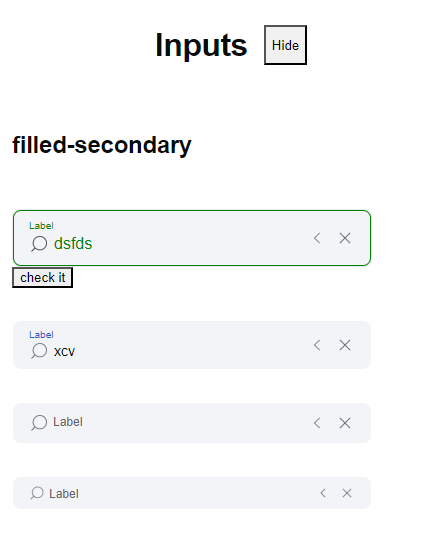
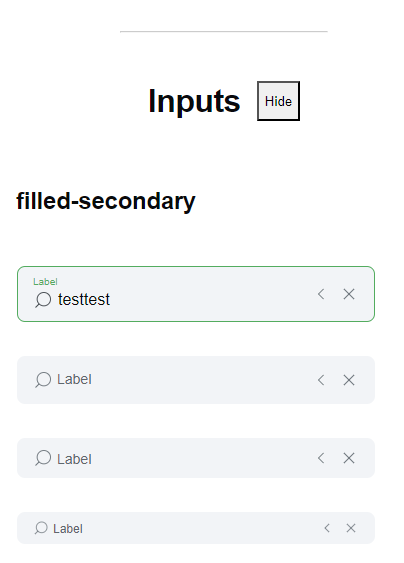
feat: add fill-sec input validation

diff --git a/src/styles/blocks/_input.scss b/src/styles/blocks/_input.scss
@@ -40,9 +40,6 @@
 	background: var(--wgr-secondary);
 	&.input {
 		outline: 0;
-		// &:hover {
-		// 	border: 1px solid var(--wgr-tertiary);
-		// }
 		&:focus {
 			border: 1px solid var(--mc-default);
 			color: var(--bti-primary);
@@ -141,17 +138,15 @@
 			border: 1px solid var(--wgr-tertiary);
 		}
 	}
-	// &:has(.ng-touched) {
-	// 	background-color: green;
-	// }
-	// &:hover:has(.input_type-filled-secondary) {
-	// 	border: 1px solid var(--wgr-tertiary);
-	// }
-	&:hover:has(.input_type-floating) {
-		box-shadow: var(--custom-floating-shadow);
+	&:has(.input_type-floating) {
+		:hover {
+			box-shadow: var(--custom-floating-shadow);
+		}
 	}
-	&:hover:has(.input_type-separated) input {
-		border-bottom: transparent;
+	&:has(.input_type-separated) {
+		:hover input {
+			border-bottom: transparent;
+		}
 	}
 	&:hover .left-wrapper mib-ref-icon {
 		@include icon-color(var(--bti-secondary));
@@ -159,32 +154,6 @@
 	&:hover .box-label {
 		color: (var(--bti-secondary));
 	}
-	// & .box-label:has(input:not(:placeholder-shown):not(:focus)) {
-	// 	top: 28%;
-	// 	// top: 50%;
-	// 	// transform: translateY(-50%);
-	// 	position: absolute;
-	// 	padding-left: 16px;
-	// 	white-space: nowrap;
-	// 	cursor: text;
-	// 	transition: var(--main-transition);
-	// }
-	// &:has(input:not(:placeholder-shown):not(:focus)) .box-label {
-	// 	display: block;
-	// 	transform: unset;
-	// 	padding-left: 16px !important;
-	// 	font-family: var(--ff-primary);
-	// 	font-style: normal;
-	// 	font-weight: var(--fw-medium);
-	// 	color: var(--bti-primary);
-	// 	transition: var(--transition);
-	// 	-webkit-user-select: text;
-	// 	user-select: text;
-	// 	font-size: 10px;
-	// 	line-height: 12px;
-	// 	color: var(--mc-default);
-	// 	transition: var(--main-transition);
-	// }
 	.box-label {
 		top: 28%;
 		// top: 50%;
@@ -214,6 +183,9 @@
 		.input,
 		.left-wrapper {
 			padding-top: 12px;
+			mib-ref-icon {
+				@include icon-color(var(--bti-secondary));
+			}
 		}
 		.box-label {
 			display: block;
@@ -234,59 +206,39 @@
 		@include box-label-styles(8px) {
 			@include text-m;
 		}
-		// .box-label {
-		// 	@include text-m;
-		// }
-		// &:has(.input_m):has(input:focus) {
-		// 	.box-label {
-		// 		top: 8px;
-		// 	}
-		// }
 	}
 	&:has(.input_s) {
 		@include box-label-styles(4px) {
-			@include text-s;
+			@include text-m;
 		}
-		// .box-label {
-		// 	@include text-s;
-		// }
-		// &:has(.input_s):has(input:focus) {
-		// 	.box-label {
-		// 		top: 4px;
-		// 	}
-		// }
 	}
 	&:has(.input_xs) {
 		@include box-label-styles(2px) {
 			@include text-s;
 		}
-		// .box-label {
-		// 	@include text-s;
-		// }
-		// &:has(.input_xs):has(input:focus) {
-		// 	.box-label {
-		// 		top: 2px;
-		// 	}
-		// }
 		mib-ref-icon {
 			@include icon-size(var(--input-s-icon-size));
 		}
 	}
-	&:has(.input_error) {
-		// border: 1px solid var(--alc-default);
-		background-color: red;
+	&:has(.input_active) {
 		.box-label {
-			color: var(--alc-default !important);
+			color: var(--succes-color-default) !important;
+		}
+		input {
+			border: 1px solid var(--succes-color-default) !important;
+		}
+	}
+	&:has(.input_error):has(input:not(.ng-pristine)) {
+		.box-label {
+			color: var(--alc-default) !important;
+		}
+		input {
+			border: 1px solid var(--alc-default) !important;
 		}
 		.left-wrapper {
 			mib-ref-icon {
-				@include icon-color(--alc-default);
+				@include icon-color(var(--alc-default) !important);
 			}
-		}
-	}
-	&:has(.input_active) {
-		.box-label {
-			color: green !important;
 		}
 	}
 }
@@ -327,14 +279,6 @@
 	}
 	&_type-separated {
 		@include input-type-separated;
-	}
-	&_active {
-		color: green !important;
-		border: 1px solid green !important;
-		// color: var(--bti-secondary);
-	}
-	&_error {
-		color: var(--alc-default);
 	}
 }
 

diff --git a/src/app/shared/modules/mib-ui/mib-ui.component.html b/src/app/shared/modules/mib-ui/mib-ui.component.html
@@ -343,7 +343,7 @@
 				></mib-ref-icon>
 			</mib-input>
 			<!-- {{ form.get('testPlaceholder').errors | json }} -->
-			<button (click)="lookIt()">check it</button>
+			<!-- <button (click)="lookIt()">check it</button> -->
 		</form>
 		<mib-input>
 			<ng-container input-label>Label</ng-container>
